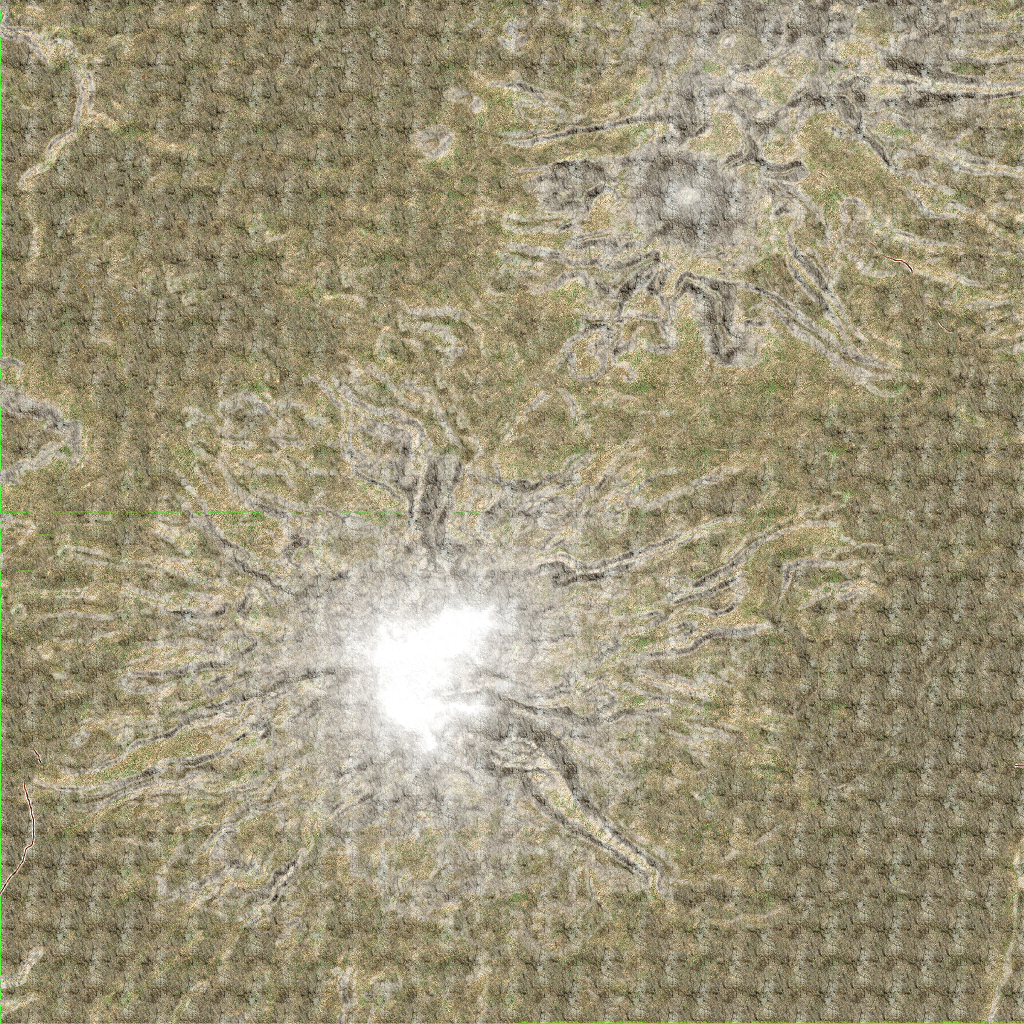
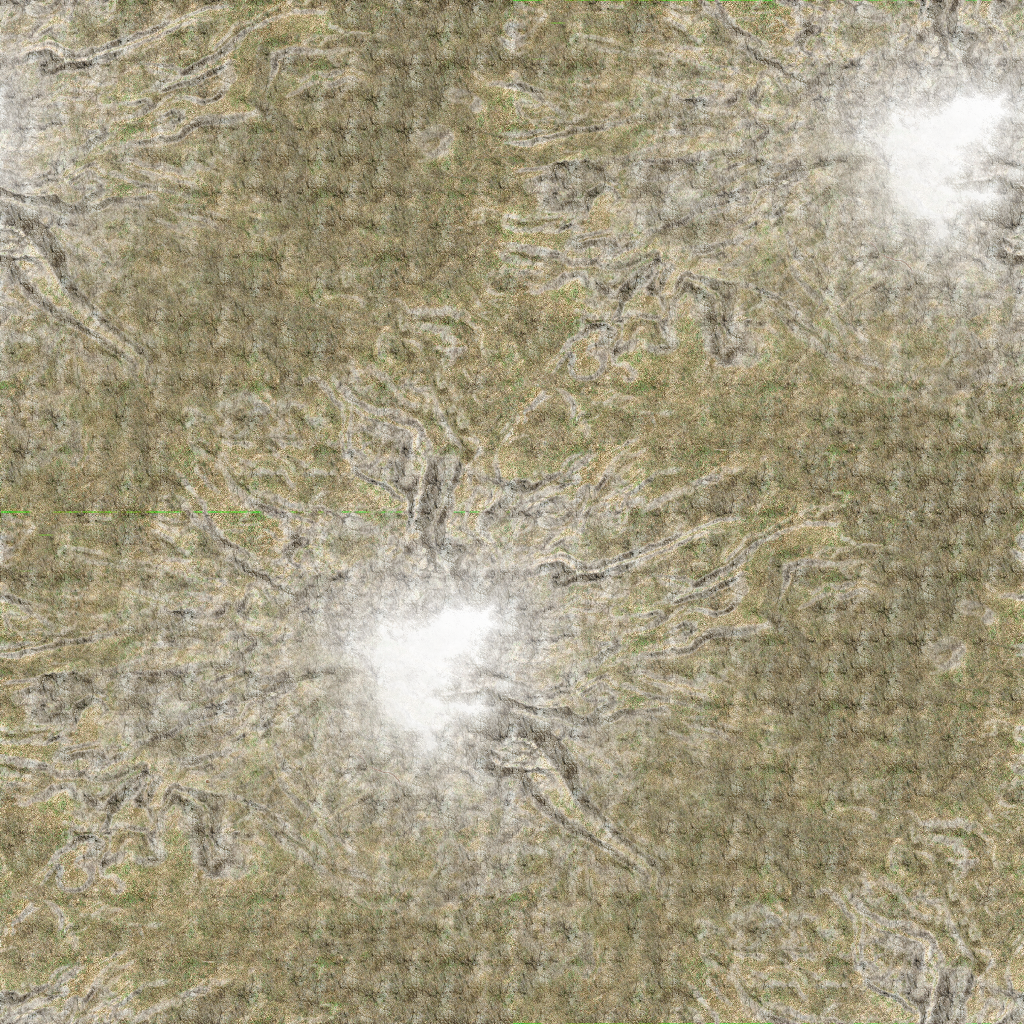
make heightmap terrain tileable, update example

Changed region(s): [[0.0, 0.0, 1.0, 1.0], [0.4062, 0.125, 0.4375, 0.1562], [0.375, 0.6875, 0.4062, 0.7188]]

diff --git a/support/client/lib/vwf/model/threejs/heightmapTerrainAlgorithm.js b/support/client/lib/vwf/model/threejs/heightmapTerrainAlgorithm.js
@@ -660,11 +660,12 @@ function heightmapTerrainAlgorithm()
 	}
 	
 	//This is the displacement function, which is called in paralell by the thread pool
-	this.displace= function(vert,matrix,res)
+	this.displace= function(vert,matrix,res,scale)
 	{
+		if(!scale) scale = 1;
 		var z = 0;
 
-		if(this.addNoise)
+		if(this.addNoise && scale < 4)
 		{
 			z = this.SimplexNoise.noise2D((vert.x)/100,(vert.y)/100) * 4.5;
 			z += this.SimplexNoise.noise2D((vert.x)/300,(vert.y)/300) * 4.5;
@@ -672,7 +673,7 @@ function heightmapTerrainAlgorithm()
 		}
 		//this is gamma correction
 		var h = this.type == 'img' && this.gamma?2.2:1.0;
-		if(this.cubic)
+		if(this.cubic && scale < 4)
 			return this.sampleBiCubic((vert.x+ (this.worldLength/2)) / this.worldLength ,(vert.y + (this.worldWidth/2)) / this.worldWidth,matrix,res  ) * h * this.heightScale  + z|| 0;
 		else
 			return this.sampleBiLinear((vert.x+ (this.worldLength/2)) / this.worldLength ,(vert.y + (this.worldWidth/2)) / this.worldWidth,matrix,res  ) * h * this.heightScale + z|| 0;
@@ -682,8 +683,10 @@ function heightmapTerrainAlgorithm()
 		x = Math.floor(x);
 		y = Math.floor(y);
 		if(!this.data) return 0;
-		if( x >= this.dataHeight || x < 0) return 0;
-		if( y >= this.dataWidth || y < 0) return 0;
+		if( x >= this.dataHeight) x = x % this.dataHeight;
+		if( x <  0) x = this.dataHeight-(-x%this.dataHeight);
+		if( y >= this.dataWidth ) y = y % this.dataWidth;
+		if( y <  0) y = this.dataWidth-(-y%this.dataWidth);
 		var i = y * this.dataWidth  + x;
 		return this.data[i]  - this.min;
 	}

diff --git a/support/client/lib/vwf/model/threejs/terrainGeneratorThread.js b/support/client/lib/vwf/model/threejs/terrainGeneratorThread.js
@@ -74,7 +74,7 @@ this.generateTerrainSimWorker = function(datain, buffers) {
     this.everyOtherNormal.length = 0;
     var matrix = new THREE.Matrix4();
     matrix.elements = datain.matrix;
-
+    var scale = (matrix.elements[0]);
     for (var i = 0; i < datain.vertices.length; i += 3) {
         var ver = new THREE.Vector3();
         ver.x = datain.vertices[i];
@@ -149,9 +149,10 @@ this.generateTerrainSimWorker = function(datain, buffers) {
                     vert3.y += vertoffset2;
                 }
 
-                var z1 = this.terrainAlgorithm.displace(vert, matrix, res);
-                var z2 = this.terrainAlgorithm.displace(vert2, matrix, res);
-                var z3 = this.terrainAlgorithm.displace(vert3, matrix, res);
+                //dont bother with using the more accurate displace if not the man vert
+                var z1 = this.terrainAlgorithm.displace(vert, matrix, res, k == 0 ? scale : 10);
+                var z2 = this.terrainAlgorithm.displace(vert2, matrix, res, k == 0 ? scale : 10);
+                var z3 = this.terrainAlgorithm.displace(vert3, matrix, res, k == 0 ? scale : 10);
 
                 var n;
                 if (k < 6)
